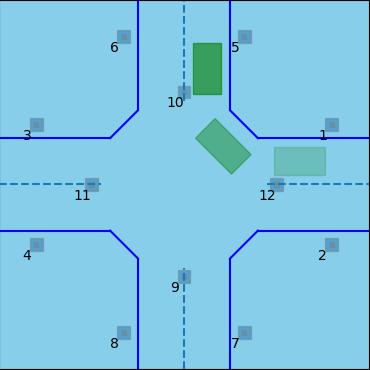
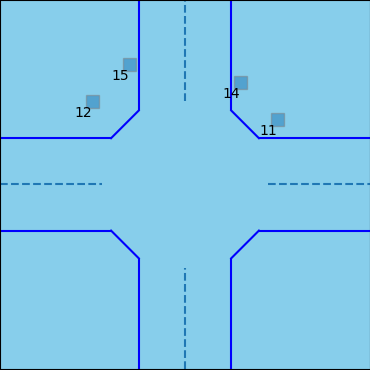
update for outdoor usage

diff --git a/src/svea_thesis/src/ref_gps_frame.py b/src/svea_thesis/src/ref_gps_frame.py
@@ -17,10 +17,12 @@ class reference_gps_frame:
         rospy.init_node('reference_gps_frame')
 
         # Reference GPS latitude, Longitude
-        self.reference_gps = rospy.get_param("~reference_gps", [59.350775, 18.068076]) #ITRL
+        self.reference_aruco = rospy.get_param("~reference_aruco", [59.350775, 18.068076]) #ITRL
+        self.reference_map = rospy.get_param("~reference_map", [59.350775,18.068094]) #
+
 
         # Publisher
-        self.reference_gps_publisher = rospy.Publisher('/gps/reference_point', NavSatFix, queue_size=10)
+        self.reference_gps_publisher = rospy.Publisher('/reference_points', NavSatFix, queue_size=10)
 
         # Transformation
         self.buffer = tf2_ros.Buffer(rospy.Duration(10))
@@ -30,13 +32,13 @@ class reference_gps_frame:
         self.rate = rospy.Rate(10)
         self.seq = 0
 
-    def PublishReferenceGpsFrame(self):
+    def PublishReferenceGpsFrame(self, point, name):
         projection = Proj(proj='utm', zone=34, ellps='WGS84')
-        utm = projection(self.reference_gps[1], self.reference_gps[0])
+        utm = projection(point[1], point[0])
         FixedGpsFrame = TransformStamped()
         FixedGpsFrame.header.stamp = rospy.Time.now()
         FixedGpsFrame.header.frame_id = "utm"
-        FixedGpsFrame.child_frame_id = "aruco1"
+        FixedGpsFrame.child_frame_id = name
         FixedGpsFrame.transform.translation = Vector3(*[utm[0], utm[1], 0.0])
         FixedGpsFrame.transform.rotation = Quaternion(*[0.0, 0.0, 0.0, 1.0])
         self.static_br.sendTransform(FixedGpsFrame)
@@ -44,14 +46,18 @@ class reference_gps_frame:
         reference_msg = NavSatFix()
         reference_msg.header.stamp = rospy.Time.now()
         reference_msg.header.frame_id = "utm"
-        reference_msg.latitude = self.reference_gps[0]
-        reference_msg.longitude = self.reference_gps[1]
+        reference_msg.header.seq = self.seq
 
+        reference_msg.latitude = point[0]
+        reference_msg.longitude = point[1]
+        self.reference_gps_publisher.publish(reference_msg)
+        self.seq += 1
+
+    def run(self):
         while not rospy.is_shutdown():
-            reference_msg.header.seq = self.seq
-            self.seq += 1
-            self.reference_gps_publisher.publish(reference_msg)
+            self.PublishReferenceGpsFrame(self.reference_aruco, "aruco1")
+            self.PublishReferenceGpsFrame(self.reference_map, "map_ref")
             self.rate.sleep()
 
 if __name__ == '__main__':
-    reference_gps_frame().PublishReferenceGpsFrame()
+    reference_gps_frame().run()

diff --git a/src/svea_thesis/scripts/ricatti_estimation.py b/src/svea_thesis/scripts/ricatti_estimation.py
@@ -22,6 +22,7 @@ from visualization_msgs.msg import Marker as VM
 from visualization_msgs.msg import MarkerArray as VMA
 
 WITH_LANDMARK = True
+MAP_FRAME = "map_ref"
 
 ERROR_MSG = {-1:"No error",
              0: "Not enough source points",
@@ -157,7 +158,7 @@ class riccati_estimation():
         msg2 = TransformStamped()
         msg2.header.seq = self.seq
         msg2.header.stamp = timeStamp #+ rospy.Duration(dt)
-        msg2.header.frame_id = 'map'
+        msg2.header.frame_id = MAP_FRAME
         msg2.child_frame_id = 'base_link_est'
 
         msg2.transform.translation.x = pose[0]
@@ -173,7 +174,7 @@ class riccati_estimation():
         msg = TransformStamped()
         msg.header.seq = self.seq
         msg.header.stamp = timeStamp #+ rospy.Duration(dt)
-        msg.header.frame_id = 'map'
+        msg.header.frame_id = MAP_FRAME
         msg.child_frame_id = 'camera_est'
 
         msg.transform.translation = transformed_direction.pose.position
@@ -196,7 +197,7 @@ class riccati_estimation():
             msg2 = TransformStamped()
             msg2.header.seq = self.seq
             msg2.header.stamp = timeStamp #+ rospy.Duration(dt)
-            msg2.header.frame_id = 'map'
+            msg2.header.frame_id = MAP_FRAME
             msg2.child_frame_id = 'camera_est'
 
             msg2.transform.translation.x = pose[0]
@@ -215,7 +216,7 @@ class riccati_estimation():
             msg = TransformStamped()
             msg.header.seq = self.seq
             msg.header.stamp = timeStamp #+ rospy.Duration(dt)
-            msg.header.frame_id = 'map'
+            msg.header.frame_id = MAP_FRAME
             msg.child_frame_id = 'base_link_est'
 
             msg.transform.translation = transformed_direction.pose.position
@@ -228,7 +229,7 @@ class riccati_estimation():
             visualarr = VMA()
             visualmarker = VM()
             visualmarker.header.stamp = timeStamp
-            visualmarker.header.frame_id = "map"
+            visualmarker.header.frame_id = MAP_FRAME
             visualmarker.ns = "sveapose"
             visualmarker.id = 0
             visualmarker.type = VM.CUBE

diff --git a/src/svea_thesis/src/landmark_outdoor.py b/src/svea_thesis/src/landmark_outdoor.py
@@ -1,0 +1,37 @@
+#!/usr/bin/env python3
+
+import rospy
+import tf2_ros
+
+from geometry_msgs.msg import TransformStamped, Vector3, Quaternion
+class landmark_outdoor:
+    def __init__(self):
+        rospy.init_node('landmark_outdoor')
+        self.landmark = {
+            11 : [1.0  , 0.7 , 0.08],
+            12 : [-1.0 , 0.9 , 0.08],
+            14 : [0.6  , 1.1 , 0.08],
+            15 : [-0.6 , 1.3 , 0.08]
+        }
+
+        self.buffer = tf2_ros.Buffer(rospy.Duration(10))
+        self.static_br = tf2_ros.StaticTransformBroadcaster()
+        self.seq = 0
+
+    def publishLandmark(self):
+        msg = TransformStamped()
+        for key, items in self.landmark.items():
+            msg.header.stamp = rospy.Time.now()
+            msg.header.seq = self.seq
+            msg.header.frame_id = "map_ref"
+            msg.child_frame_id = "aruco" + str(key)
+            msg.transform.translation = Vector3(*items)
+            msg.transform.rotation = Quaternion(*[0, 0, 0, 1])
+            self.static_br.sendTransform(msg)
+        self.seq += 1
+    def run(self):
+        while not rospy.is_shutdown():
+            self.publishLandmark()
+
+if __name__ == '__main__':
+    landmark_outdoor().run()
